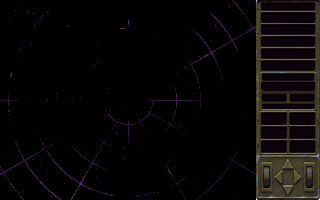
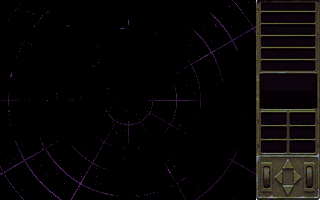
Readout becomes one window, clock digits red
"clock still doesnt fit". It could not. The panel's readout is divided by bezel
ribs, and the clean strips between them measure 6.7, 8.0, 2.3 and 5.0 base
pixels. The big clock font needs 16. No layout of the readout fits this art -
the ribs were the thing that was wrong, not the clock.

Deepening only touched pixels brighter than LIT=210 and the ribs sit at
luminance 100-170 against a floor of 9, so they survived and the digits printed
across them. fit_panel_art.py now flattens the whole readout block to its own
floor tone with a faint gradient, feathered at the border so the surrounding
bezel is untouched. One recessed window, which is what the art request asked
for in the first place.

RED DIGITS. Two things were in the way and neither was the colour index.

HiUI washes every glyph 205/255 of the way to off-white, deliberately - the
geoscape palette hands its labels a scatter of pale blues and greens and the
wash makes the panel read as one piece of type. But it is applied by palette
index and cannot tell a default from a choice, so red came out PINK. Saturation
separates them: nothing in this palette's UI text is near 150 of spread, so a
colour that saturated was picked on purpose and keeps its hue.

And the colour index is not the colour drawn. Text draws a glyph as
`color + pixelValue`, FontBig's body pixels are value 4, and PAL_GEOSCAPE holds
exactly two reds - 13 and 14 - with no red ramp anywhere. 13 puts the body on
[…]

Changed region(s): [[0.8125, 0.36, 1.0, 0.54]]

diff --git a/tools/oxce-4x/build/fit_panel_art.py b/tools/oxce-4x/build/fit_panel_art.py
@@ -176,6 +176,31 @@ RECTS = [(6,0,378,66),(6,72,378,66),(6,144,378,66),(6,216,378,66),(6,288,378,66)
          (18, READOUT[0], 354, READOUT[1]-READOUT[0]),   # funds, clock, weekday, date
          (6,672,186,78),(198,672,186,78),(6,756,186,78),(198,756,186,78),
          (6,840,186,78),(198,840,186,78)]
+# THE READOUT RIBS HAVE TO GO, NOT JUST GET DARKER.
+#
+# Deepening only touches pixels brighter than LIT, and this panel's readout is
+# divided by bezel ribs that sit well below it - around luminance 100 to 170
+# against a floor of 9. They survived, and the clock printed across them.
+#
+# There is no layout that avoids them. The clean sub-strips between the ribs
+# measure 6.7, 8.0, 2.3 and 5.0 base pixels, and the big clock font needs 16:
+# nothing in this panel can hold it, and the small font fits only one of the
+# four. So the ribs are the thing that is wrong, not the clock.
+#
+# The block is flattened to its own floor tone with a faint top-down gradient so
+# it does not read as a dead rectangle, feathered at the border so the bezel
+# around the window is untouched. This is what the art request asked for in the
+# first place: ONE recessed readout window, not a stack of slots.
+rx, ry, rw, rh = 18, READOUT[0], 354, READOUT[1] - READOUT[0]
+blk = out[ry:ry+rh, rx:rx+rw]
+floor = np.percentile(blk.reshape(-1, 3), 25, axis=0)
+grad = np.linspace(1.06, 0.94, rh)[:, None, None]
+flat = floor[None, None, :] * grad
+fy = np.clip(np.minimum(np.arange(rh), rh-1-np.arange(rh)) / 7.0, 0, 1)
+fx = np.clip(np.minimum(np.arange(rw), rw-1-np.arange(rw)) / 7.0, 0, 1)
+m = (fy[:, None] * fx[None, :])[:, :, None]
+out[ry:ry+rh, rx:rx+rw] = blk * (1 - m) + flat * m
+
 LIT = 210.0
 for x, y, w, h in RECTS:
     blk = out[y:y+h, x:x+w]
